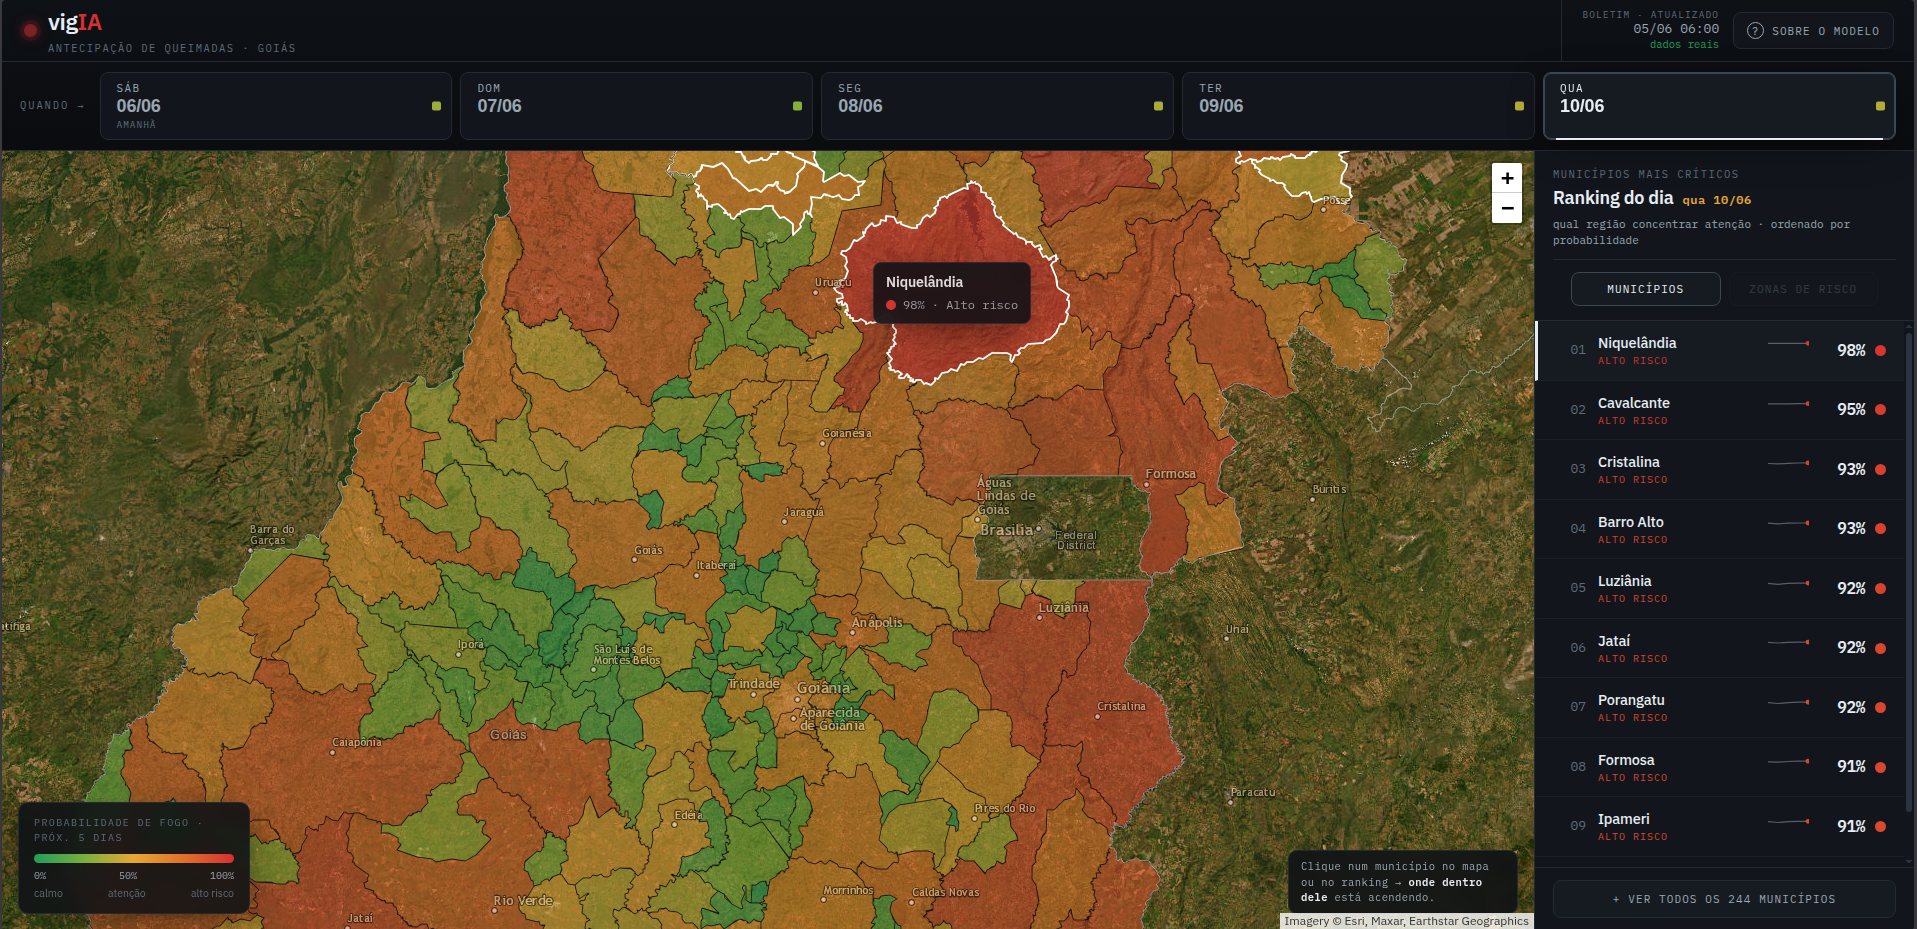
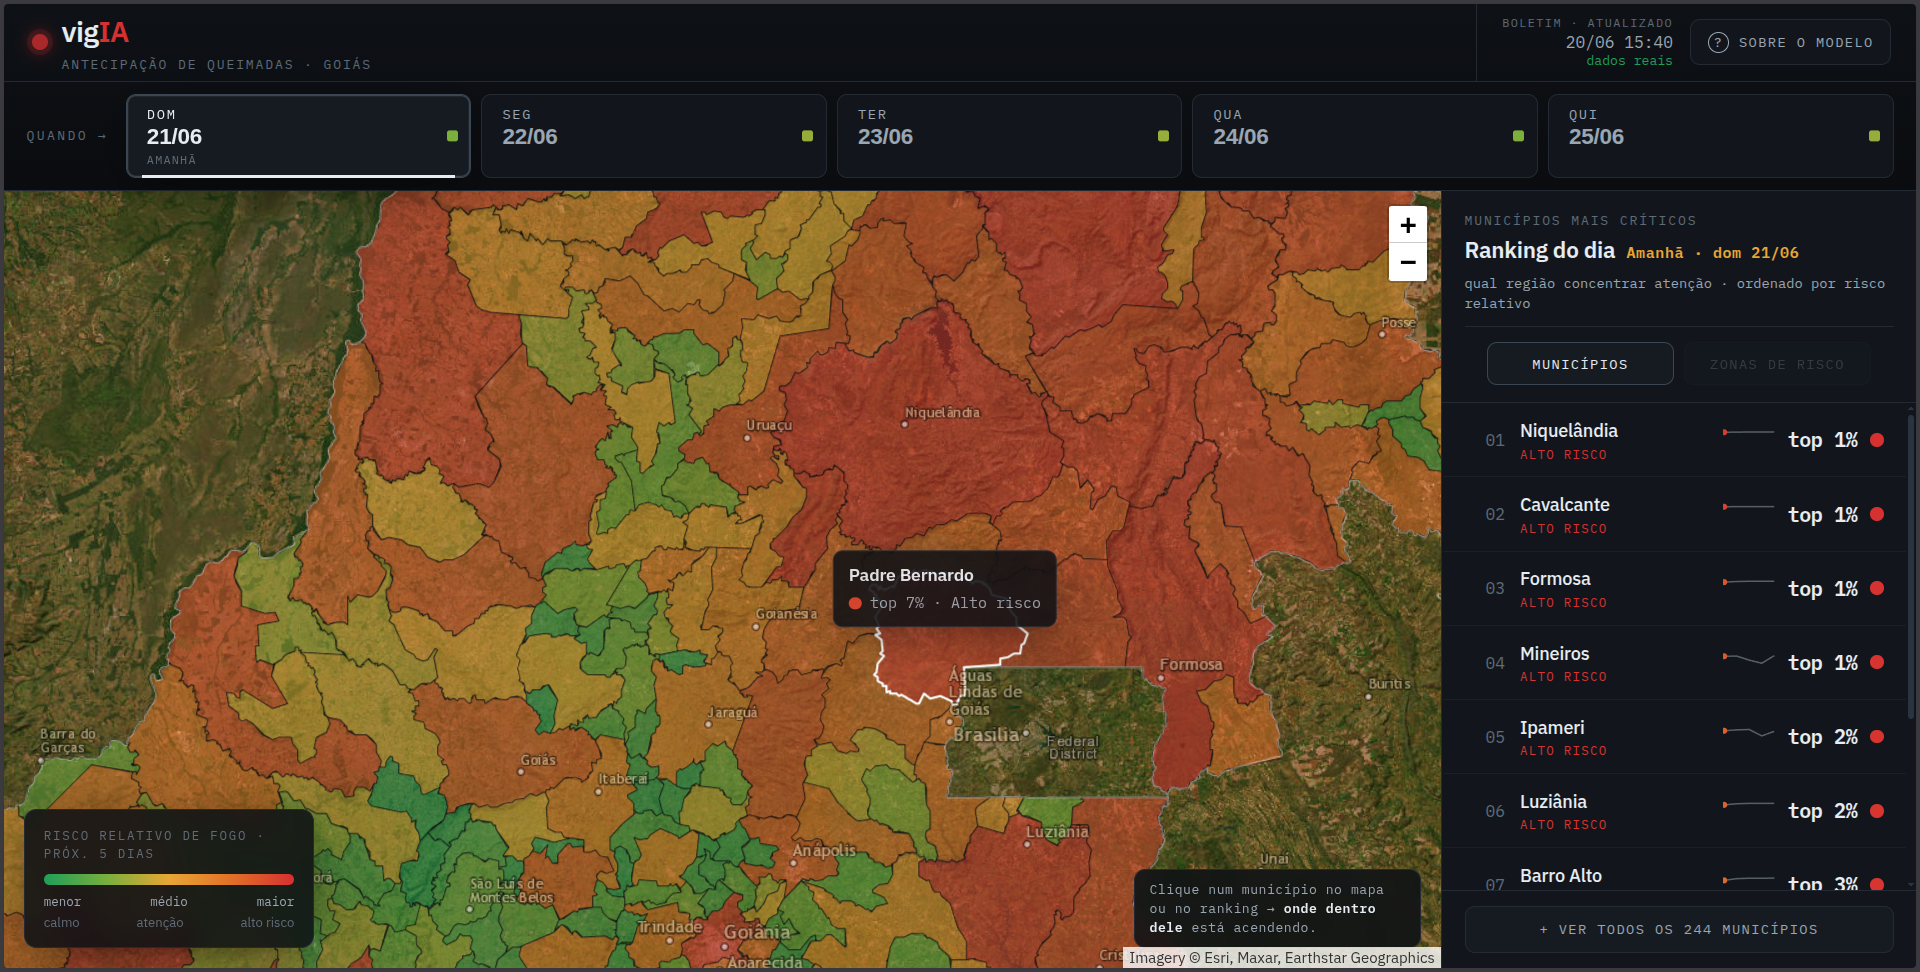
docs: atualiza README.

diff --git a/README.md b/README.md
@@ -14,13 +14,13 @@ O vigIA é um sistema de previsão de risco de queimadas para o estado de Goiás
 
 ## Como usar
 
-No mapa, cada município é colorido de acordo com o risco previsto:
+No mapa, cada município é colorido de acordo com o risco relativo do dia — a posição de cada área no ranking comparado a todos os municípios de Goiás:
 
-- **Vermelho** — risco alto
-- **Laranja** — risco médio  
-- **Verde** — risco baixo
+- **Vermelho** — alto risco (top 10%)
+- **Âmbar** — atenção (top 10–30%)
+- **Verde** — calmo (demais 70%)
 
-Use a barra de dias no topo para navegar entre os próximos 5 dias. O ranking lateral mostra os municípios em ordem decrescente de risco. Clique em qualquer município para ver o detalhamento espacial interno (células de ~11 km²).
+O ranking lateral exibe cada município com sua posição relativa ("top 5%", "top 30%", etc.) e reordena ao trocar o dia. Clique em qualquer município para ver o detalhamento espacial interno (células de ~11 km²).
 
 ## Atualização
 
@@ -30,7 +30,7 @@ O boletim é gerado automaticamente todos os dias às 03h (horário de Brasília
 
 - Cobre 244 municípios de Goiás no bioma Cerrado
 - Goiás possui 246 municípios; Gouvelândia e São Simão (bioma Mata Atlântica) estão fora do escopo do modelo e aparecem sinalizados no mapa
-- As previsões são probabilísticas — indicam risco relativo, não certeza de ocorrência
+- O risco exibido é **relativo** — indica a posição no ranking do dia, não uma probabilidade absoluta de ocorrência
 - Modelos treinados com dados de 2015 a 2025 (INPE BDqueimadas + Open-Meteo)
 
 ---